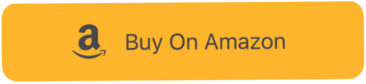
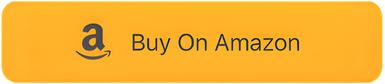
Partner page refinements
- Remove 'Referred by a Throne Light partner' text from checkout page
- Change 'Or purchase from retailers:' to singular 'Or purchase from retailer:' when only one retailer is shown
- Amazon button image already updated and confirmed working

diff --git a/src/app/partners/[slug]/page.tsx b/src/app/partners/[slug]/page.tsx
@@ -455,7 +455,9 @@ export default function BridgePage() {
               {/* Secondary CTAs - External Retailers (only show if URLs provided) */}
               {(partner.amazonUrl || partner.kindleUrl) && (
                 <div className="pt-4 border-t border-gray-700">
-                  <p className="text-center text-sm text-gray-500 mb-3">{t.orPurchaseFrom}</p>
+                  <p className="text-center text-sm text-gray-500 mb-3">
+                    {partner.amazonUrl && partner.kindleUrl ? t.orPurchaseFrom : 'Or purchase from retailer:'}
+                  </p>
                   <div className="flex justify-center gap-4">
                     {partner.amazonUrl && (
                       <button

diff --git a/src/app/checkout/page.tsx b/src/app/checkout/page.tsx
@@ -145,12 +145,6 @@ function CheckoutContent() {
           )}
         </button>
         
-        {/* Partner Attribution */}
-        {partnerId && (
-          <p className="text-center text-sm text-gray-500 mt-4">
-            Referred by a Throne Light partner
-          </p>
-        )}
       </div>
     </div>
   );
